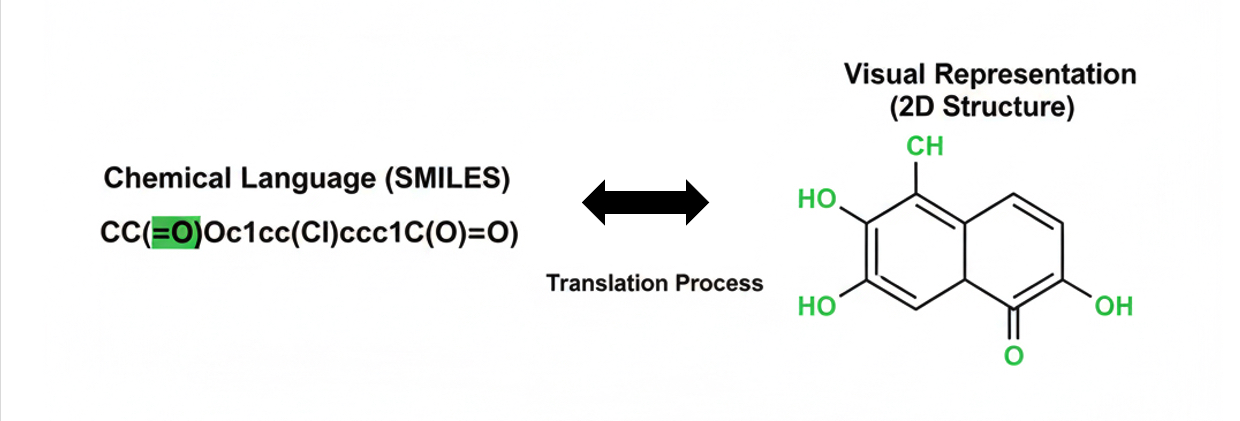
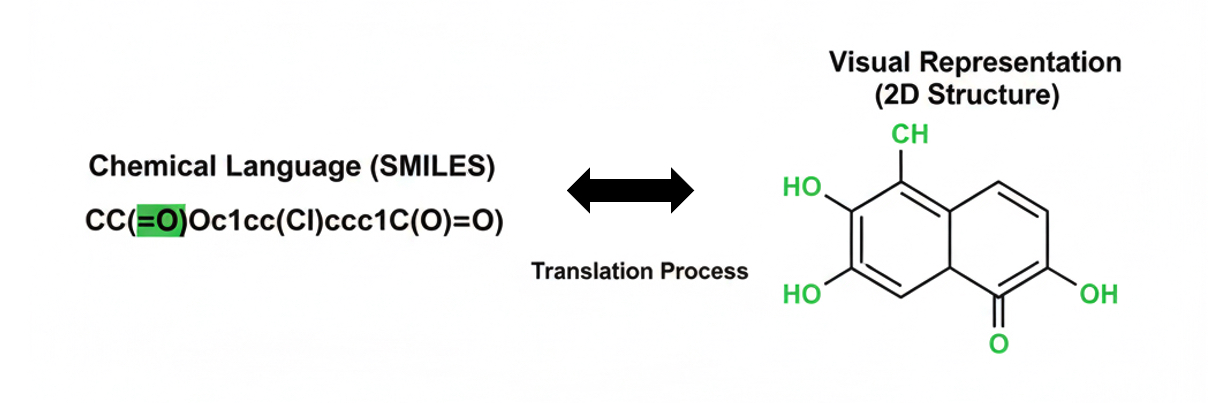
update README

diff --git a/inverse-design/README.md b/inverse-design/README.md
@@ -34,9 +34,9 @@ We represent molecular structures using SMILES (Simplified Molecular Input Line 
 - **Why we use it**: SMILES strings are directly compatible with transformer-based Large Language Models (LLMs), which are designed to process sequential token data.
 - **Our purpose**: By treating SMILES as a form of “chemical language,” we can leverage LLMs for molecule generation and property-conditioned design.
 
-For training and evaluation, we use [htp_md.csv](inverse-design/data/raw/htp_md.csv), a dataset containing polymer candidates with SMILES representations and binary conductivity labels (high/low). These SMILES are used both as LLM input/output and for downstream property evaluation.
+For training and evaluation, we use [htp_md.csv](data/raw/htp_md.csv), a dataset containing polymer candidates with SMILES representations and binary conductivity labels (high/low). These SMILES are used both as LLM input/output and for downstream property evaluation.
 
-![SMILES representation example](inverse-design/images/smiles_example.jpg)
+![SMILES representation example](images/smiles_example.jpg)
 
 *Example of how a 2D molecular structure maps to its SMILES string.*
 
@@ -45,9 +45,111 @@ For training and evaluation, we use [htp_md.csv](inverse-design/data/raw/htp_md.
 
 ## How to run
 
+This section outlines the key steps to reproduce our experiments and evaluate inverse design results.
+
+### 1. Set up the environment
+
+Install required packages:
+
+```bash
+pip install -r requirements.txt
+```
+
+Make sure your environment includes:
+- `transformers`, `peft`, `datasets`, `scikit-learn`, `rdkit`, etc.
+- GPU is recommended for LLM inference and fine-tuning
+
 ---
 
-## Results
+### 2. Reproduce minGPT results
+
+Use the original PolyGen-style minGPT pipeline:
+
+```python
+notebooks/generation/minGPT_pipeline.ipynb
+```
+
+Results are saved in:
+
+```
+data/generated/
+```
+
+---
+
+### 3. Generate SMILES using GPT-4o and base LLaMA
+
+Prompt-based inverse design using language models:
+
+```python
+notebooks/generation/gpt4o_generate.ipynb
+notebooks/generation/llama_generate.ipynb
+```
+
+Cleaned outputs are stored under:
+
+```
+data/generated/
+```
+
+---
+
+### 4. Fine-tune LLaMA on HTP-MD (PolyGen-style)
+
+Fine-tune `meta-llama/Llama-3.2-3B-Instruct` using LoRA on HTP-MD data:
+
+```python
+notebooks/generation/llama_finetune_htpmd.ipynb
+```
+
+Input format:
+
+```
+[<HIGH>, <HIGH>, <HIGH>, <HIGH>, <HIGH>] + SMILES
+```
+
+The fine-tuned model is saved under:
+
+```
+models/llama-polygen-htpmd-lora/
+```
+
+---
+
+### 5. Generate with fine-tuned LLaMA
+
+Conditionally generate p-SMILES using the fine-tuned model:
+
+```python
+notebooks/generation/llama_generate_tuned.ipynb
+```
+
+---
+
+### 6. Evaluate generated SMILES
+
+Compute all evaluation metrics:
+
+- Validity
+- Uniqueness
+- Novelty
+- Synthesizability
+- Similarity
+- Diversity
+
+Also includes functional group analysis.
+
+Run:
+
+```python
+notebooks/evaluation/compute_metrics.ipynb
+```
+
+Outputs are saved to:
+
+```
+results/metrics/
+```
 
 ---
 
